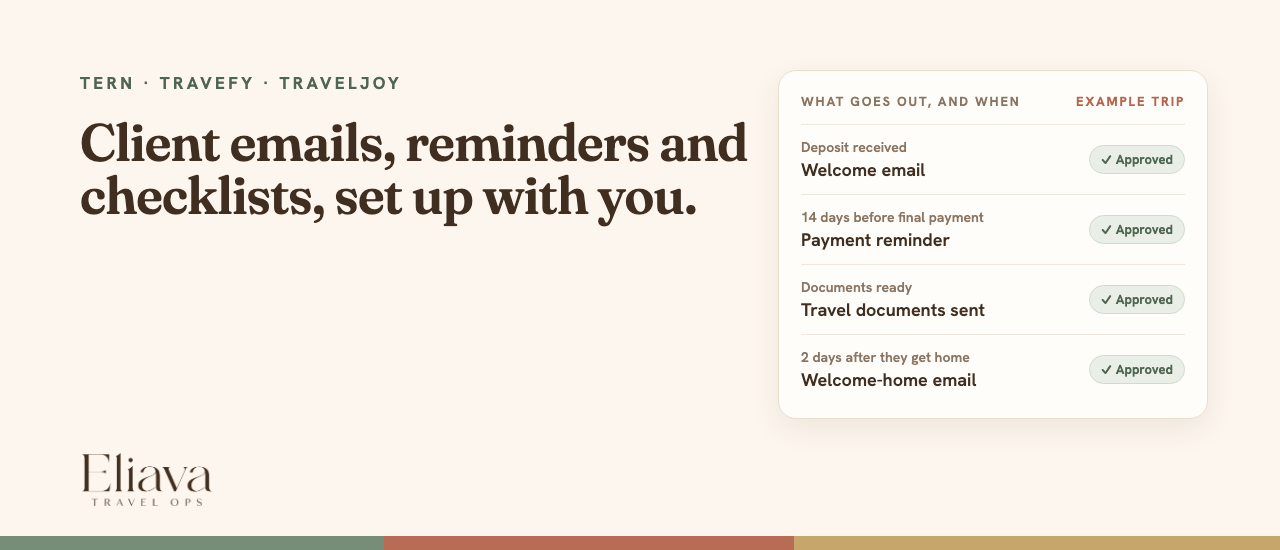
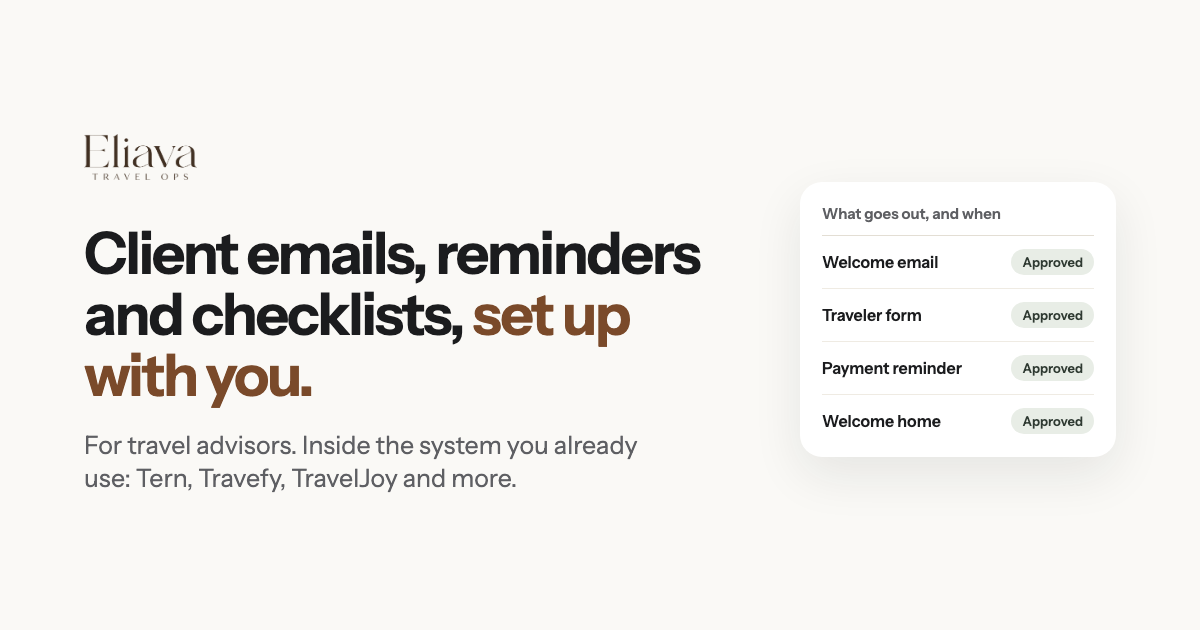
Fix fade-in class clash, spacing and copy from site audit
- Rename reveal class to is-in so it no longer picks up the form input style
- Bold all form labels, add scroll margin for the sticky header, phone board spacing
- Remove the client-files stat, fix About grammar, match nav and checklist wording
- Add the catch-up sprint to the footer, new 1200x630 share image and meta tags

diff --git a/index.html b/index.html
@@ -9,6 +9,11 @@
 <meta property="og:title" content="Client emails, reminders and checklists, set up with you">
 <meta property="og:description" content="For luxury travel advisors. Set up inside the system you already use: Tern, TravelJoy, Travefy and more.">
 <meta property="og:image" content="https://eliavatravel.com/assets/share.png">
+<meta property="og:image:width" content="1200">
+<meta property="og:image:height" content="630">
+<meta property="og:type" content="website">
+<link rel="canonical" href="https://eliavatravel.com/">
+<link rel="apple-touch-icon" href="assets/icon.png">
 <meta property="og:url" content="https://eliavatravel.com/">
 <meta name="twitter:card" content="summary_large_image">
 <link rel="preconnect" href="https://fonts.googleapis.com">
@@ -96,8 +101,8 @@ section{padding:96px 0}
 /* proof */
 .proof{padding:24px 0 8px}
 .ledger{display:grid;grid-template-columns:1fr;gap:12px}
-@media (min-width:560px){ .ledger{grid-template-columns:repeat(3,1fr)} }
-@media (min-width:860px){ .ledger{grid-template-columns:repeat(3,1fr)} }
+@media (min-width:560px){ .ledger{grid-template-columns:repeat(2,1fr)} }
+@media (min-width:860px){ .ledger{grid-template-columns:repeat(2,1fr)} }
 .stat{background:var(--bone);border-radius:var(--r);padding:26px 22px}
 .stat .n{font-size:clamp(34px,4.4vw,52px);font-weight:600;line-height:1;letter-spacing:-.04em}
 .stat .l{font-size:15px;color:var(--steel);margin-top:10px;line-height:1.4}
@@ -209,7 +214,10 @@ dialog.apply::backdrop{background:rgba(27,28,30,.45);backdrop-filter:blur(3px)}
 .x{flex:none;width:40px;height:40px;border-radius:999px;border:1px solid var(--line);background:#fff;font:600 20px/1 var(--sans);color:var(--ink);cursor:pointer}
 .x:hover{border-color:var(--ink)}
 .fld{margin-top:20px}
-.fld > label,.fld legend{display:block;font-weight:600;font-size:16px;margin:0 0 8px;padding:0}
+.fld > label,.fld legend,.two > div > label{display:block;font-weight:600;font-size:16px;margin:0 0 8px;padding:0}
+section[id]{scroll-margin-top:88px}
+@media (max-width:420px){ .board{padding:18px 16px 6px} .pill{font-size:12px;padding:5px 9px} }
+@media (min-width:900px){ #packages{padding-top:48px} }
 .fld fieldset{border:0;margin:0;padding:0;min-width:0}
 .opt-hint{font-weight:400;color:var(--steel);font-size:14px}
 .in{width:100%;font:16px/1.4 var(--sans);color:var(--ink);background:#fff;border:1px solid #d8d2c6;border-radius:14px;padding:13px 14px}
@@ -232,7 +240,7 @@ textarea.in{min-height:90px;resize:vertical}
 
 /* reveal */
 .reveal{opacity:0;transform:translateY(14px);transition:opacity .6s ease, transform .6s cubic-bezier(.2,.7,.2,1)}
-.reveal.in{opacity:1;transform:none}
+.reveal.is-in{opacity:1;transform:none}
 .no-js .reveal{opacity:1;transform:none}
 </style>
 </head>
@@ -243,7 +251,7 @@ textarea.in{min-height:90px;resize:vertical}
   <div class="wrap">
     <a class="brand" href="#top" aria-label="Eliava Travel Ops, back to top"><img src="assets/eliava-logo.png" alt="Eliava Travel Ops" width="93" height="38"></a>
     <nav class="nav" aria-label="Main">
-      <div class="links"><a href="#how">How I work</a><a href="#packages">Packages</a><a href="#about">About</a></div>
+      <div class="links"><a href="#how">How it works</a><a href="#packages">Packages</a><a href="#about">About</a></div>
       <a class="btn btn-primary btn-sm" href="https://cal.com/kady-dennis/discovery-call" target="_blank" rel="noopener" data-apply>Start your audit application <span class="arrow" aria-hidden="true">&rarr;</span></a>
     </nav>
   </div>
@@ -265,7 +273,7 @@ textarea.in{min-height:90px;resize:vertical}
       <div class="board" role="img" aria-label="Example: the emails that go out for one trip, each one approved by the advisor">
         <div class="board-hd"><span>What goes out, and when</span><span>Example trip</span></div>
         <div class="row"><div><div class="when">Deposit received</div><div class="what">Welcome email</div></div><div class="pill">&#10003; Approved</div></div>
-        <div class="row"><div><div class="when">Right after booking</div><div class="what">Traveler details form</div></div><div class="pill">&#10003; Approved</div></div>
+        <div class="row"><div><div class="when">Same day</div><div class="what">Traveler details form</div></div><div class="pill">&#10003; Approved</div></div>
         <div class="row"><div><div class="when">14 days before final payment</div><div class="what">Payment reminder</div></div><div class="pill">&#10003; Approved</div></div>
         <div class="row"><div><div class="when">Documents ready</div><div class="what">Travel documents sent</div></div><div class="pill">&#10003; Approved</div></div>
         <div class="row"><div><div class="when">2 days after they get home</div><div class="what">Welcome-home email</div></div><div class="pill">&#10003; Approved</div></div>
@@ -278,7 +286,6 @@ textarea.in{min-height:90px;resize:vertical}
 <section class="proof" aria-label="Experience">
   <div class="wrap">
     <div class="ledger reveal">
-      <div class="stat"><div class="n">1,000s</div><div class="l">of active client files managed</div></div>
       <div class="stat"><div class="n">15+ yrs</div><div class="l">in operations</div></div>
       <div class="stat"><div class="n">4+ yrs</div><div class="l">working inside luxury travel agencies</div></div>
     </div>
@@ -291,7 +298,7 @@ textarea.in{min-height:90px;resize:vertical}
     <div class="sticky reveal">
       <p class="kicker">How it works</p>
       <h2>One kind of trip at a time.</h2>
-      <p class="lede">We start with one kind of trip, like cruises. The next kind goes faster and costs less.</p>
+      <p class="lede">We start with one kind of trip, like cruises. The next kind costs less.</p>
     </div>
     <ol class="how-list">
       <li class="reveal"><div class="num">01</div><h3>We look at one trip together</h3><p>I show you what goes out, when, and what to fix.</p></li>
@@ -330,7 +337,7 @@ textarea.in{min-height:90px;resize:vertical}
         <ul>
           <li>Everything in Basic</li>
           <li>Up to 8 client emails, written in your words</li>
-          <li>Forms, checklist and reminders, set up in your system</li>
+          <li>Forms, checklists and reminders, set up in your system</li>
           <li>You approve every email first</li>
         </ul>
         <div class="time"><b>2-3 weeks</b></div>
@@ -389,8 +396,8 @@ textarea.in{min-height:90px;resize:vertical}
     <div class="about-copy reveal">
       <p class="kicker">About me</p>
       <h2>Hi, I'm Kady!</h2>
-      <p>My background is in operations long before travel. I spent years coordinating large-scale training events and executive travel, then brought that same discipline into luxury travel agencies.</p>
-      <p>I build the setup so the details don't depend on your memory, and I get the small things right: the welcome email that sounds like you wrote it, the wheelchair request that makes it to the hotel. That matters with every client, and most with the ones who need extra care: first-time travelers, older clients, and travelers with accessibility needs.</p>
+      <p>I worked in operations long before travel. I spent years coordinating large-scale training events and executive travel, then brought that same discipline into luxury travel agencies.</p>
+      <p>I set things up so the details don't depend on your memory. I get the small things right. The welcome email sounds like you wrote it. The wheelchair request makes it to the hotel. That matters with every client, and most with the ones who need extra care: first-time travelers, older clients, and travelers with accessibility needs.</p>
       <p>When I'm not working, I'm on my acreage in rural Georgia with my dog and kids, usually deep in a botany or mushroom rabbit hole, or planning the next trip.</p>
       <p class="sign">-Kady</p>
     </div>
@@ -457,7 +464,7 @@ textarea.in{min-height:90px;resize:vertical}
       <p class="err" id="apply-err" role="alert">Please answer each question so I can get ready for our call.</p>
       <div class="apply-actions">
         <button type="submit" class="btn btn-primary">Next: pick a time <span class="arrow" aria-hidden="true">&rarr;</span></button>
-        <span class="small">Your answers go with your booking, just to me.</span>
+        <span class="small">Only I see your answers. They go with your booking.</span>
       </div>
     </form>
 
@@ -478,7 +485,7 @@ textarea.in{min-height:90px;resize:vertical}
   <div class="wrap">
     <div class="fgrid">
       <div><img src="assets/eliava-logo.png" alt="Eliava Travel Ops" width="83" height="34"><div>Client emails, reminders and checklists for luxury travel advisors.</div></div>
-      <div><h4>Packages</h4><ul><li><a href="#packages">Audit, $295</a></li><li><a href="#packages">Audit + Setup, $1,175</a></li><li><a href="#packages">Audit + Setup + Training, $2,695</a></li></ul></div>
+      <div><h4>Packages</h4><ul><li><a href="#packages">Audit, $295</a></li><li><a href="#packages">Audit + Setup, $1,175</a></li><li><a href="#packages">Audit + Setup + Training, $2,695</a></li><li><a href="#packages">Catch-up sprint, $495</a></li></ul></div>
       <div><h4>Get started</h4><ul><li><a href="https://cal.com/kady-dennis/discovery-call" target="_blank" rel="noopener" data-apply>Audit application</a></li><li><a href="https://www.letslucia.com/agent/copilots/profile/313-kady" target="_blank" rel="noopener">Hire me on Lucia</a></li></ul></div>
       <div><h4>Contact</h4><ul><li><a href="mailto:kady@eliavatravel.com">kady@eliavatravel.com</a></li></ul></div>
     </div>
@@ -493,9 +500,9 @@ document.body.classList.remove('no-js');
   function onScroll(){ top.classList.toggle('scrolled', window.scrollY>8); }
   window.addEventListener('scroll', onScroll, {passive:true}); onScroll();
   var els=[].slice.call(document.querySelectorAll('.reveal'));
-  if(!('IntersectionObserver' in window)){ els.forEach(function(e){e.classList.add('in');}); return; }
+  if(!('IntersectionObserver' in window)){ els.forEach(function(e){e.classList.add('is-in');}); return; }
   var io=new IntersectionObserver(function(entries){
-    entries.forEach(function(en){ if(en.isIntersecting){ en.target.classList.add('in'); io.unobserve(en.target); } });
+    entries.forEach(function(en){ if(en.isIntersecting){ en.target.classList.add('is-in'); io.unobserve(en.target); } });
   },{rootMargin:'0px 0px -8% 0px', threshold:0.08});
   els.forEach(function(e){ io.observe(e); });
 })();
